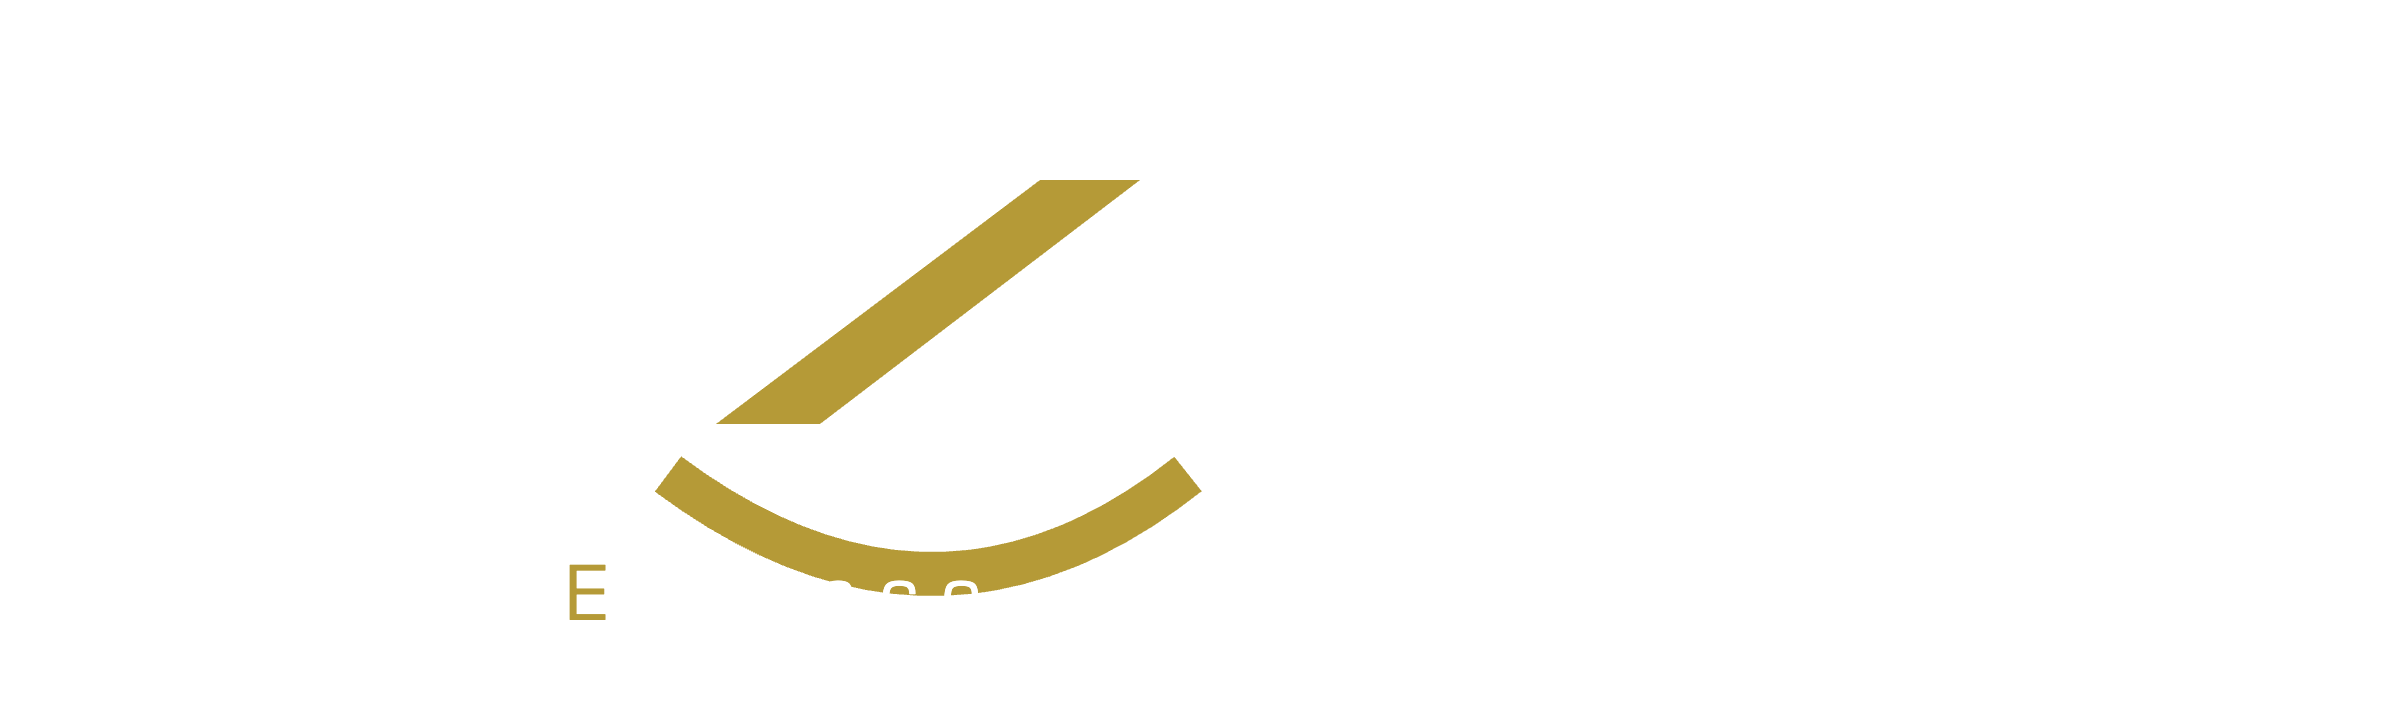
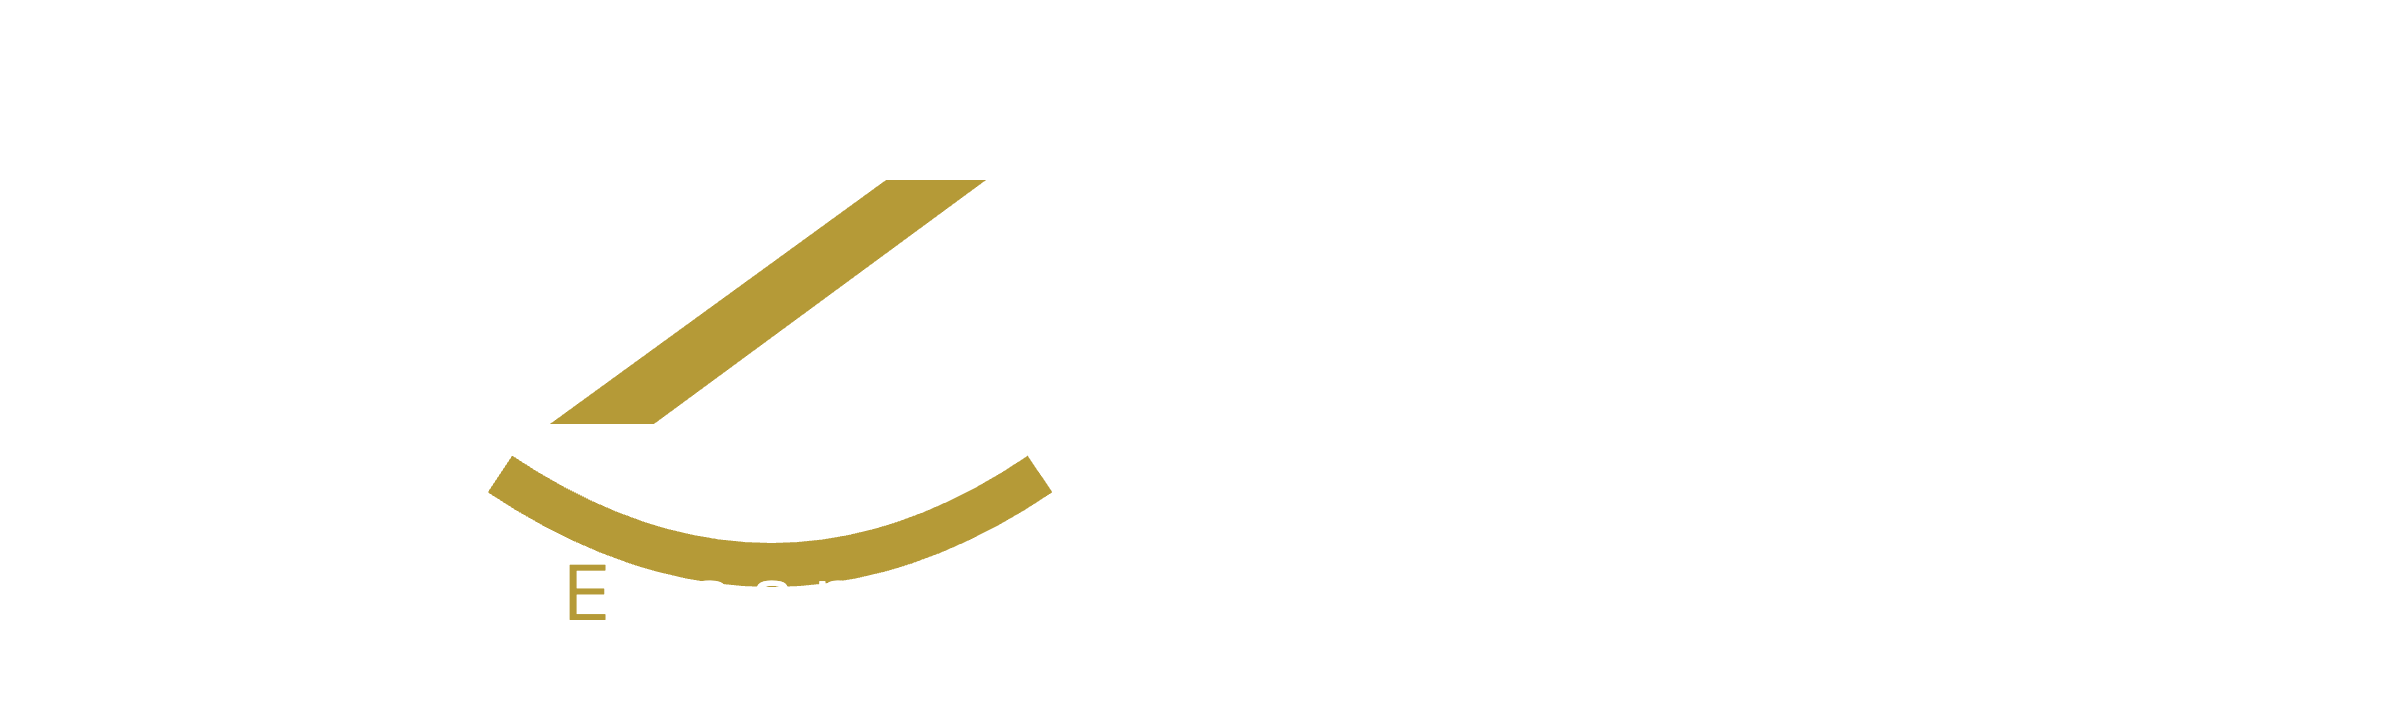
Polish EXOS commercial brand experience

Changed region(s): [[0.2188, 0.2444, 0.4688, 0.6111], [0.1875, 0.6417, 0.5, 0.825]]

diff --git a/branding.py b/branding.py
@@ -22,7 +22,7 @@ EXOS_PAPER = "#FFFFFF"
 PLATFORM_NAME = "EXOS"
 PLATFORM_EXPANSION = "eEssence eXperiential OS"
 COMPANY_NAME = "eEssence"
-BROWSER_TITLE = "EXOS | eEssence eXperiential OS"
+BROWSER_TITLE = "EXOS"
 
 
 def asset_path(name: str) -> str:
@@ -37,9 +37,10 @@ def _data_uri(path: Path) -> str:
 def experience_title(event: dict | None = None, fallback: str = "Mission AI") -> str:
     """Resolve the experience, never the platform, from an event record."""
     row = event or {}
+    generic_names = {"team building", "countries", "programme", "event"}
     for key in ("ExperienceName", "ProgrammeName", "ProgrammeType"):
         value = str(row.get(key, "") or "").strip()
-        if value:
+        if value and value.casefold() not in generic_names:
             return value
     name = str(row.get("EventName", "") or "").strip()
     for known in (
@@ -96,7 +97,12 @@ def apply_branding(*, dark: bool = False) -> None:
           }}
           html {{ color-scheme:light; }}
           .stApp {{ background:#FFFFFF; color:{EXOS_NAVY}; }}
-          [data-testid="stSidebar"] {{ background:#FFFFFF; color:{EXOS_NAVY}; }}
+          .block-container {{padding-top:2.2rem; padding-bottom:3rem;}}
+          h1 {{font-size:clamp(2.35rem,4vw,4rem) !important; letter-spacing:-.035em;}}
+          h2, h3 {{letter-spacing:-.02em;}}
+          [data-testid="stSidebar"] {{
+            background:#FFFFFF; color:{EXOS_NAVY}; min-width:290px;
+          }}
           input, textarea, select {{
             background:#FFFFFF !important; color:{EXOS_NAVY} !important;
           }}
@@ -107,14 +113,38 @@ def apply_branding(*, dark: bool = False) -> None:
             background:{EXOS_NAVY}; border-color:{EXOS_NAVY}; color:#FFFFFF;
           }}
           .stButton > button p {{ color:#FFFFFF !important; }}
-          #MainMenu, [data-testid="stStatusWidget"], footer {{visibility:hidden;}}
-          [data-testid="stHeader"] {{background:transparent;}}
+          #MainMenu, [data-testid="stStatusWidget"], footer,
+          [data-testid="stHeader"], [data-testid="stToolbar"] {{visibility:hidden;}}
           [data-testid="stSidebar"] {{
-            border-right:1px solid rgba(8,45,88,.12);
+            border-right:2px solid rgba(8,45,88,.12);
           }}
           [data-testid="stSidebar"] > div:first-child::before {{
-            content:""; display:block; width:172px; height:54px;
-            margin:22px auto 8px; background:url('{logo}') center/contain no-repeat;
+            content:""; display:block; width:220px; height:82px;
+            margin:24px auto 18px; background:url('{logo}') center/contain no-repeat;
+          }}
+          [data-testid="stSidebar"] [role="radiogroup"] {{
+            gap:.48rem; padding:.25rem .25rem .75rem;
+          }}
+          [data-testid="stSidebar"] [role="radiogroup"] label {{
+            min-height:48px; padding:.68rem .85rem; border-radius:10px;
+            border:1px solid transparent; font-size:1.08rem; font-weight:650;
+          }}
+          [data-testid="stSidebar"] [role="radiogroup"] label:hover {{
+            background:rgba(8,45,88,.06);
+          }}
+          [data-testid="stSidebar"] [role="radiogroup"] label:has(input:checked) {{
+            background:{EXOS_NAVY}; border-color:{EXOS_NAVY};
+          }}
+          [data-testid="stSidebar"] [role="radiogroup"] label:has(input:checked) p {{
+            color:#FFFFFF !important;
+          }}
+          [data-testid="stSidebar"] p {{font-size:1rem; line-height:1.35;}}
+          [data-testid="stMetric"] {{
+            border:1px solid rgba(8,45,88,.12); border-radius:14px;
+            padding:1rem 1.15rem; background:#FFFFFF;
+          }}
+          [data-testid="stVerticalBlockBorderWrapper"] {{
+            border-color:rgba(8,45,88,.14) !important; border-radius:16px !important;
           }}
           .exos-kicker {{
             color:{EXOS_BLUE}; font-size:.76rem; font-weight:800;
@@ -147,6 +177,12 @@ def apply_branding(*, dark: bool = False) -> None:
         <script>
           const d = window.parent.document;
           d.title = {json.dumps(BROWSER_TITLE)};
+          const titleNode=d.querySelector('title');
+          if (titleNode) {{
+            new MutationObserver(() => {{
+              if (d.title !== 'EXOS') d.title='EXOS';
+            }}).observe(titleNode, {{childList:true,characterData:true,subtree:true}});
+          }}
           let icon = d.querySelector("link[rel~='icon']");
           if (!icon) {{ icon=d.createElement('link'); icon.rel='icon'; d.head.appendChild(icon); }}
           icon.href = {json.dumps(favicon)};
@@ -156,13 +192,15 @@ def apply_branding(*, dark: bool = False) -> None:
           let apple = d.querySelector("meta[name='apple-mobile-web-app-title']");
           if (!apple) {{ apple=d.createElement('meta'); apple.name='apple-mobile-web-app-title'; d.head.appendChild(apple); }}
           apple.content = 'EXOS';
+          let appName = d.querySelector("meta[name='application-name']");
+          if (!appName) {{ appName=d.createElement('meta'); appName.name='application-name'; d.head.appendChild(appName); }}
+          appName.content = 'EXOS';
           if (!window.parent.sessionStorage.getItem('exosSplashSeen')) {{
             window.parent.sessionStorage.setItem('exosSplashSeen', '1');
             const splash=d.createElement('div');
             splash.id='exos-splash';
-            splash.innerHTML='<div style="font:800 64px Arial;letter-spacing:.16em">EX<span style="color:{EXOS_BLUE}">O</span>S</div>'
-              + '<div style="margin-top:18px;letter-spacing:.18em;font:15px Arial">eEssence eXperiential OS</div>'
-              + '<div style="margin-top:38px;opacity:.72;font:12px Eurostile,Arial;letter-spacing:.12em">by eEssence</div>';
+            splash.innerHTML='<div style="font:800 64px Eurostile,Arial;letter-spacing:.06em">E<span style="color:{EXOS_GOLD}">X</span>OS</div>'
+              + '<div style="margin-top:18px;letter-spacing:.18em;font:15px Eurostile,Arial">eEssence eXperiential OS</div>';
             splash.style.cssText='position:fixed;inset:0;z-index:999999;display:flex;flex-direction:column;align-items:center;justify-content:center;background:{EXOS_NAVY};color:white;transition:opacity .35s ease';
             d.body.appendChild(splash);
             setTimeout(() => {{ splash.style.opacity='0'; setTimeout(() => splash.remove(), 380); }}, 850);
@@ -179,16 +217,22 @@ def experience_header(
     *,
     welcome: bool = False,
     subtitle: str = "Today's Experience",
+    signature: bool = False,
 ) -> None:
     heading = "Welcome to EXOS" if welcome else "EXOS"
+    subtitle_html = (
+        f"""<div style="margin-top:1.35rem;color:inherit;opacity:.68;font-size:.86rem;
+                      letter-spacing:.14em;text-transform:uppercase;">{html.escape(subtitle)}</div>"""
+        if subtitle
+        else ""
+    )
     st.markdown(
         f"""
         <div class="exos-hero">
           <div class="exos-kicker">{html.escape(heading)}</div>
-          <div style="margin-top:1.35rem;color:inherit;opacity:.68;font-size:.86rem;
-                      letter-spacing:.14em;text-transform:uppercase;">{html.escape(subtitle)}</div>
+          {subtitle_html}
           <div class="exos-experience">{html.escape(title)}</div>
-          <div class="exos-powered">by eEssence</div>
+          {"<div class='exos-powered'>by eEssence</div>" if signature else ""}
         </div>
         """,
         unsafe_allow_html=True,

diff --git a/screens/programme_builder.py b/screens/programme_builder.py
@@ -1,5 +1,6 @@
 from pathlib import Path
 from datetime import time
+import html
 import json
 
 import pandas as pd
@@ -529,18 +530,50 @@ def render_programme_first_builder(db):
             if int(module.get("Day", 1)) == day
         ]
         for index, module in day_modules:
-            activity_label = (
-                "activity" if module["ActivityCount"] == 1 else "activities"
+            st.markdown(
+                f"""
+                <div style="
+                    border:1px solid rgba(8,45,88,.16);
+                    border-left:7px solid #B59A37;
+                    border-radius:16px;
+                    padding:22px 24px 18px;
+                    margin:18px 0 8px;
+                    background:#FFFFFF;
+                    box-shadow:0 10px 28px rgba(8,45,88,.06);
+                ">
+                  <div style="font-size:.76rem;font-weight:800;letter-spacing:.15em;
+                              color:#B59A37;text-transform:uppercase;">
+                    Module {index + 1} · {html.escape(str(module.get("StartTime", "—")))}
+                  </div>
+                  <div style="font-size:1.65rem;font-weight:800;color:#082D58;
+                              margin:.35rem 0 .65rem;line-height:1.1;">
+                    {html.escape(str(module["ModuleName"]))}
+                  </div>
+                  <div style="display:flex;gap:28px;color:#082D58;font-size:1rem;">
+                    <span><strong>{module["DurationMinutes"]}</strong> minutes</span>
+                    <span><strong>{module["ActivityCount"]}</strong> activities</span>
+                    <span><strong>Day {module["Day"]}</strong></span>
+                  </div>
+                </div>
+                """,
+                unsafe_allow_html=True,
             )
-            with st.expander(
-                (
-                    f"{index + 1}. {module['ModuleName']}  ·  "
-                    f"{module.get('StartTime', '—')}  ·  "
-                    f"{module['DurationMinutes']} min  ·  "
-                    f"{module['ActivityCount']} {activity_label}"
-                ),
-                expanded=False,
-            ):
+            edit_col, up_col, down_col, remove_col = st.columns([3, 1, 1, 1])
+            edit_col.caption("Edit and expand the complete module agenda below.")
+            if up_col.button("↑ Move", disabled=index == 0, key=f"mod_up_{event_id}_{index}"):
+                modules[index - 1], modules[index] = modules[index], modules[index - 1]
+                _save_modules(db, event_id, modules)
+                st.rerun()
+            if down_col.button("↓ Move", disabled=index == len(modules) - 1, key=f"mod_down_{event_id}_{index}"):
+                modules[index + 1], modules[index] = modules[index], modules[index + 1]
+                _save_modules(db, event_id, modules)
+                st.rerun()
+            if remove_col.button("Delete", key=f"mod_remove_{event_id}_{index}"):
+                modules.pop(index)
+                _save_modules(db, event_id, modules)
+                st.rerun()
+
+            with st.expander("Edit · Expand module", expanded=False):
                 name_col, day_col, start_col = st.columns([3, 1, 1])
                 edited_name = name_col.text_input(
                     "Module name", value=module["ModuleName"],
@@ -554,8 +587,7 @@ def render_programme_first_builder(db):
                     "Start", value=str(module.get("StartTime", "")),
                     key=f"module_start_{event_id}_{index}",
                 )
-                save_col, up_col, down_col, remove_col = st.columns([2, 1, 1, 1])
-                if save_col.button("Save Module", type="primary", key=f"mod_save_{event_id}_{index}"):
+                if st.button("Save Module", type="primary", key=f"mod_save_{event_id}_{index}"):
                     module["ModuleName"] = edited_name.strip() or "Untitled Module"
                     module["Day"] = int(edited_day)
                     for activity_position, activity in enumerate(module["Activities"]):
@@ -566,19 +598,6 @@ def render_programme_first_builder(db):
                         )
                     _save_modules(db, event_id, modules)
                     st.rerun()
-                if up_col.button("Move Up", disabled=index == 0, key=f"mod_up_{event_id}_{index}"):
-                    modules[index - 1], modules[index] = modules[index], modules[index - 1]
-                    _save_modules(db, event_id, modules)
-                    st.rerun()
-                if down_col.button("Move Down", disabled=index == len(modules) - 1, key=f"mod_down_{event_id}_{index}"):
-                    modules[index + 1], modules[index] = modules[index], modules[index + 1]
-                    _save_modules(db, event_id, modules)
-                    st.rerun()
-                if remove_col.button("Remove", key=f"mod_remove_{event_id}_{index}"):
-                    modules.pop(index)
-                    _save_modules(db, event_id, modules)
-                    st.rerun()
-
                 st.markdown("#### Activities")
                 rows = [{
                     "Order": position,

diff --git a/screens/command_centre.py b/screens/command_centre.py
@@ -1,3 +1,5 @@
+import html
+
 import streamlit as st
 
 from branding import experience_header, experience_title
@@ -46,7 +48,8 @@ def show_command_centre():
         key="command_centre_event",
     )
     event_id = str(event.get("EventID", ""))
-    experience_header(experience_title(event))
+    programme_name = experience_title(event)
+    experience_header(programme_name, subtitle="Programme Name")
 
     teams = _safe_count(lambda: db.get_teams(event_id))
     missions = _safe_count(lambda: db.get_event_missions(event_id))
@@ -152,7 +155,8 @@ def show_results_reports():
         key="results_reports_event",
     )
     event_id = str(event.get("EventID", ""))
-    experience_header(experience_title(event))
+    programme_name = experience_title(event)
+    experience_header(programme_name, subtitle="Programme Name")
     participants = _safe_number(
         lambda: db.get_participant_count(event_id)
     )
@@ -172,6 +176,12 @@ def show_results_reports():
             str(row.get("Status", "")).upper() == "APPROVED"
             for row in submissions
         ),
+    )
+    st.markdown("#### Programme Name")
+    st.markdown(
+        f"<div style='font-size:1.5rem;font-weight:800;color:#082D58;"
+        f"margin-bottom:1.2rem'>{html.escape(programme_name)}</div>",
+        unsafe_allow_html=True,
     )
 
     if submissions:
@@ -196,6 +206,4 @@ def show_results_reports():
     else:
         st.info("No submissions have been received for this event.")
 
-    st.info(
-        "PDF client reporting will be added here after the live Mission AI workflow is completed."
-    )
+    st.info("Report exports use the selected programme name and EXOS identity.")

diff --git a/screens/participant.py b/screens/participant.py
@@ -1188,7 +1188,7 @@ def show_participant():
         persist_session_in_query_params()
 
     if "participant_event_id" not in st.session_state:
-        experience_header("Mission AI", welcome=True)
+        experience_header("Mission AI")
 
         join_code = st.text_input("Join Code").upper().strip()
         first_name = st.text_input("First / Given Name")
@@ -1255,7 +1255,7 @@ def show_participant():
         experience_title(
             {"EventName": st.session_state.get("participant_event_name", "")}
         ),
-        welcome=True,
+        welcome=False,
     )
     st.success(f"Welcome {st.session_state['participant_name']}")
     st.caption(st.session_state["participant_event_name"])

diff --git a/screens/control_centre.py b/screens/control_centre.py
@@ -204,7 +204,7 @@ def show_control_centre():
         <style>
         .control-hero {padding:24px;border-radius:22px;
           background:#082D58;
-          border:1px solid rgba(184,255,61,.24);margin-bottom:18px}
+          border:1px solid rgba(181,154,55,.38);margin-bottom:18px}
         .control-kicker {color:#B59A37;font-size:.78rem;font-weight:800;
           letter-spacing:.14em;text-transform:uppercase}
         .control-title {font-size:clamp(2.1rem,4vw,4rem);font-weight:900;

diff --git a/screens/events_home.py b/screens/events_home.py
@@ -1,10 +1,12 @@
 import streamlit as st
 
+from branding import experience_header
 from data.google_sheets import GoogleSheetsDB
 from screens.app_state import remember_active_event, request_navigation
 
 
 def show_events_home():
+    experience_header("Event Operating System", subtitle="")
     st.title("Events")
     st.caption("Create a new event or continue from where you left off.")
     db = GoogleSheetsDB()
